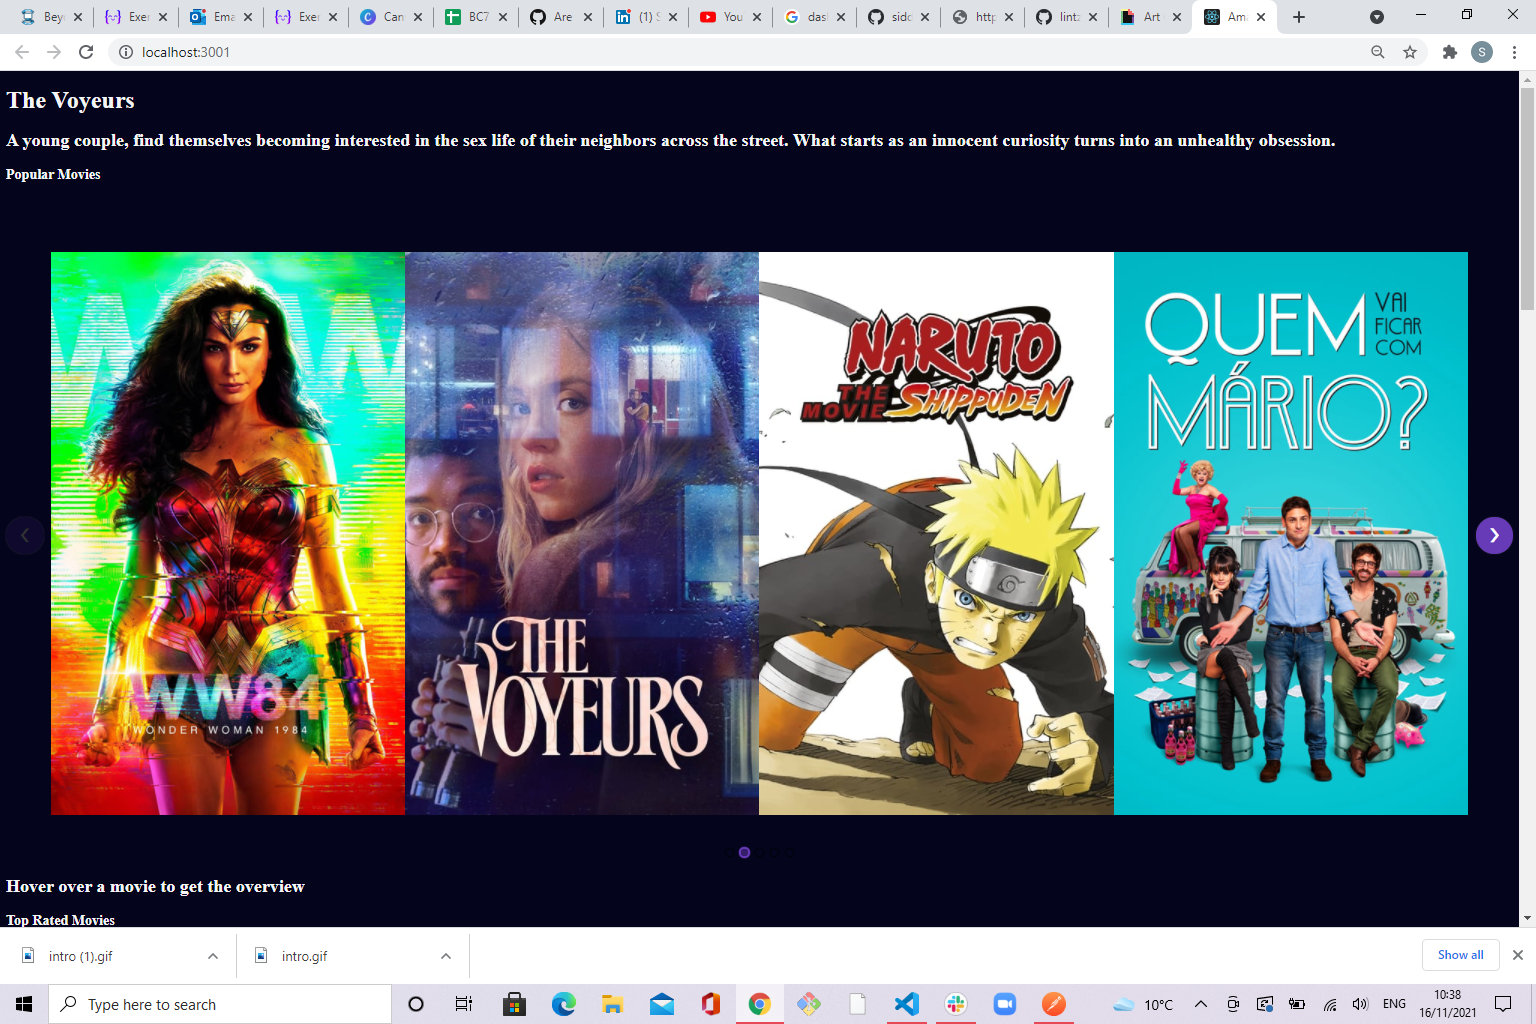
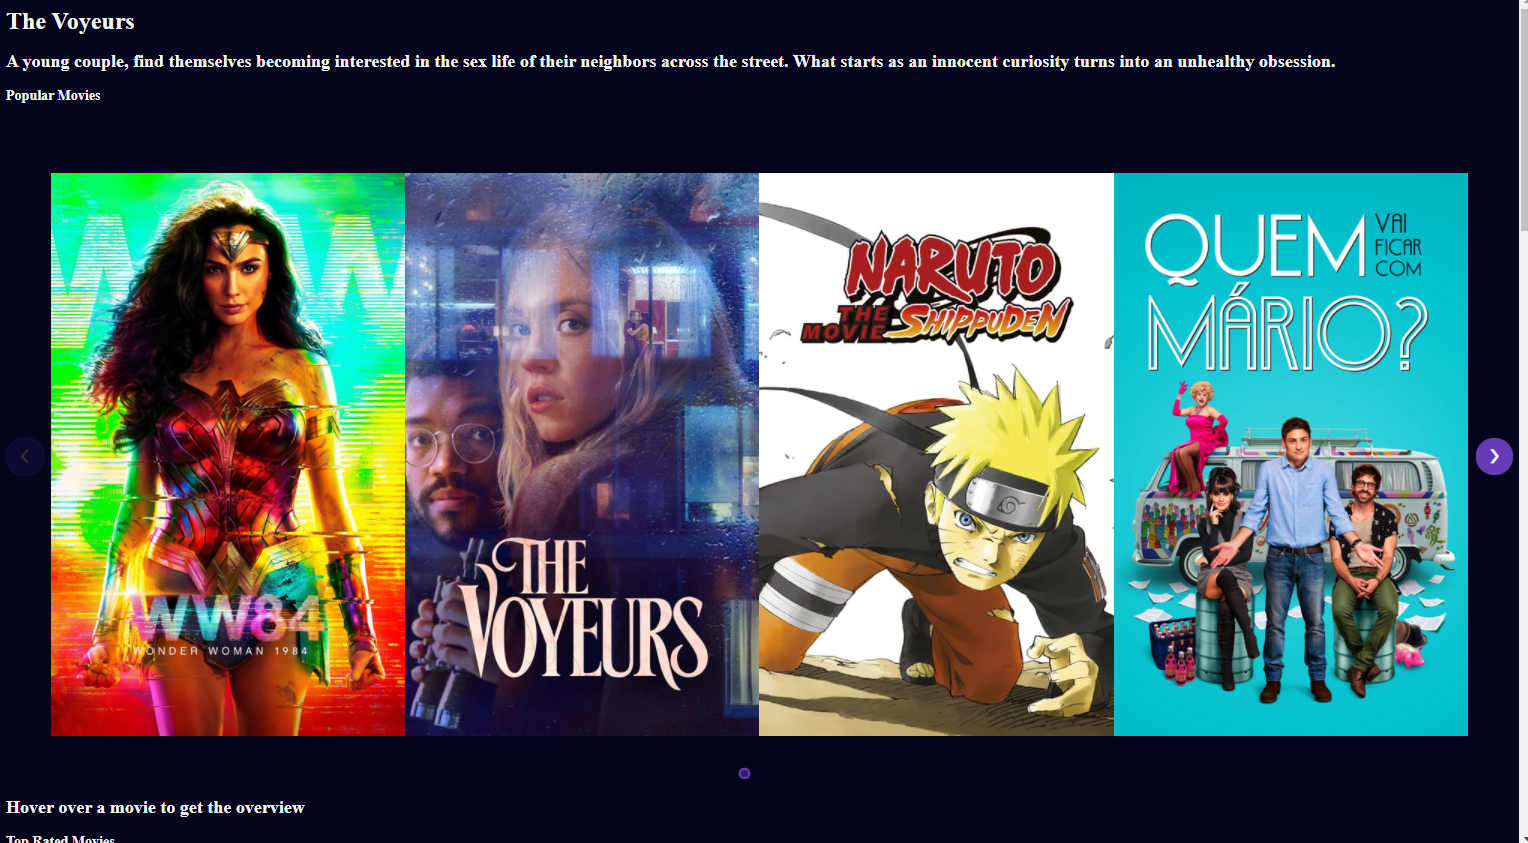
changed images in slide show

diff --git a/src/components/Cards.js b/src/components/Cards.js
@@ -25,13 +25,13 @@ function Cards({ refProp }) {
     "/projects"
   );
   const dashboard = new CardObject(
-    "images/dashboard.png",
+    "images/dash.png",
     "Beyond Bootcamp Dashboard",
     "React",
     "/projects"
   );
   const weatherApp = new CardObject(
-    "images/weatherApp.png",
+    "images/weatherapp.png",
     "Javascript Weather App",
     "Vanilla JavaScript",
     "/projects"

diff --git a/src/components/cards.css b/src/components/cards.css
@@ -84,7 +84,7 @@ h1 {
   max-width: 100%;
   height: 100%;
   max-height: 100%;
-  object-fit: cover;
+  object-fit: contain;
   transition: all 0.2s linear;
 }
 
